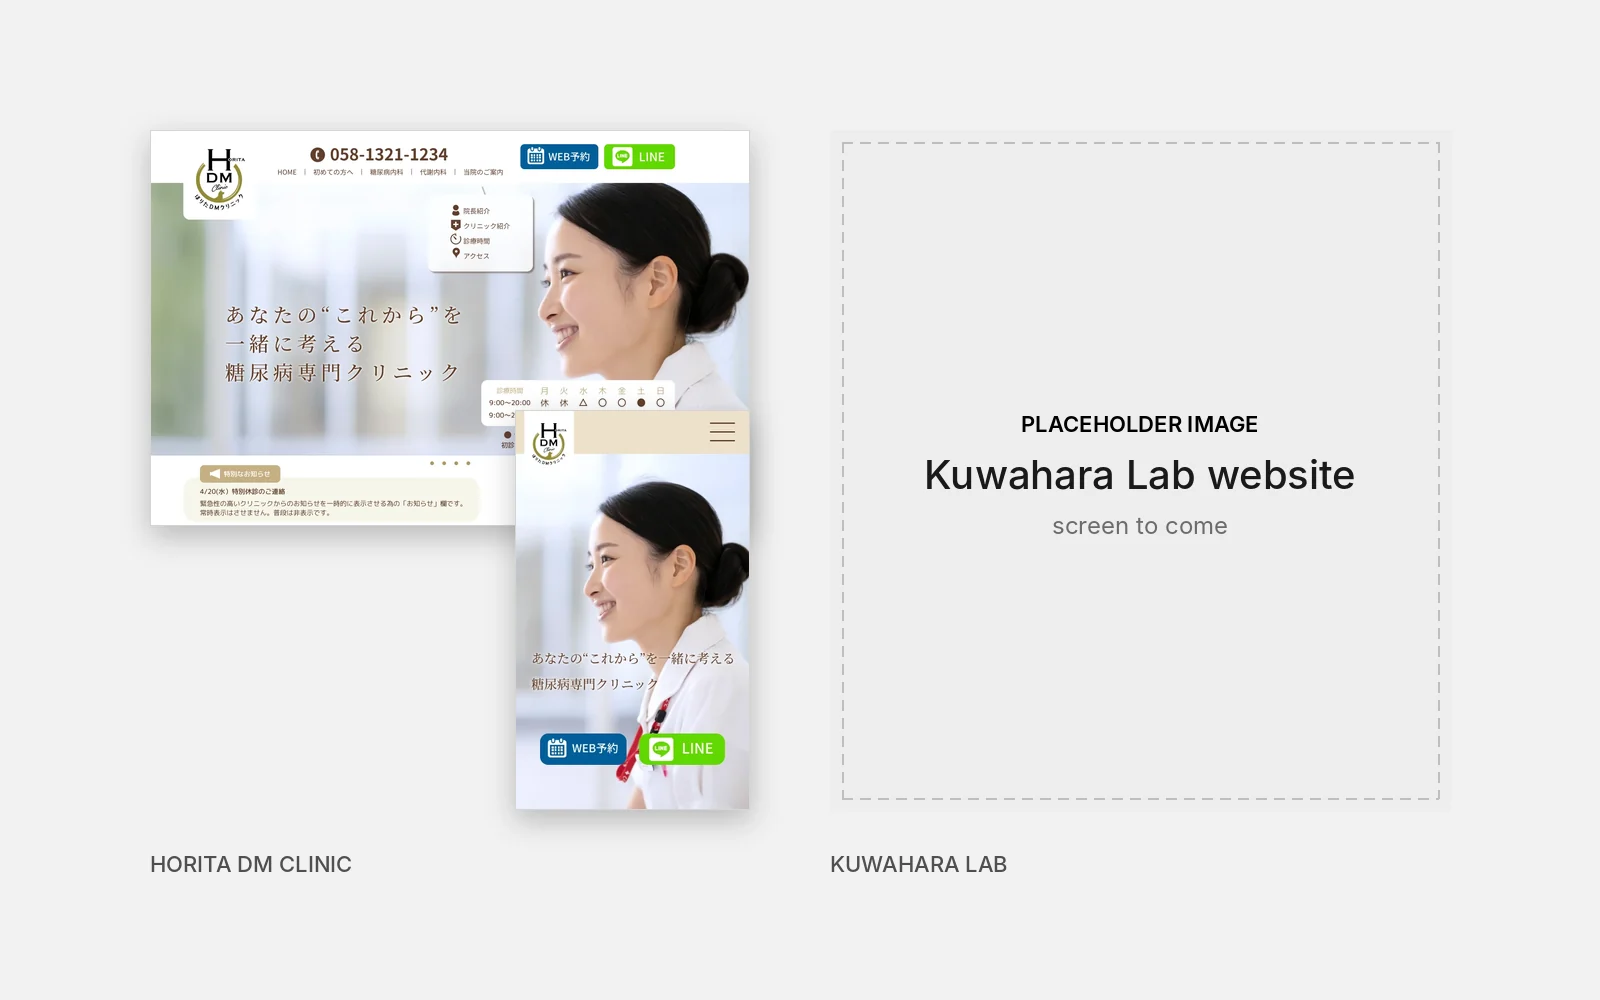
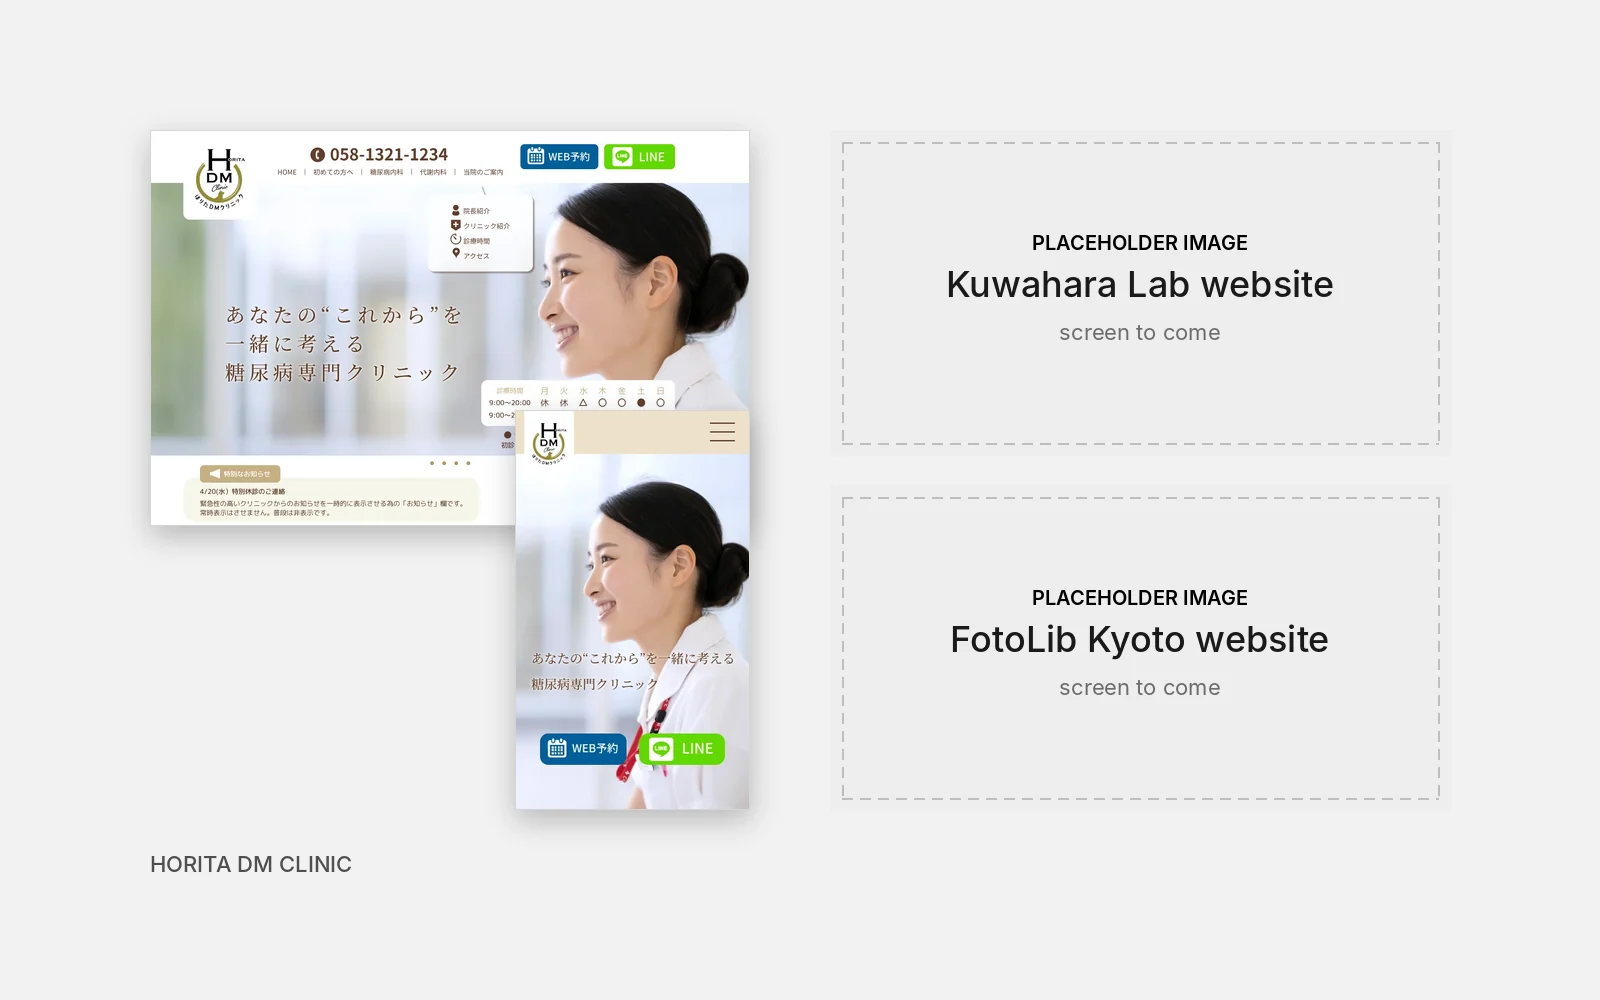
Add FotoLib Kyoto to the WordPress Japan project
FotoLib Kyoto joins Horita DM Clinic and Kuwahara Lab on card 05: the
summary, lead, context, facts and live-site links name all three.

Its Figma file and site could not be opened from this session, so it
carries only what is known — that the team created it and where it
lives — with a labelled placeholder block, like Kuwahara Lab. The
placeholder blocks are now one list on the project record rather than a
field each, and the card's collage gains a second placeholder panel.

Claude-Session: https://claude.ai/code/session_01Xf2N52RA4BQZigSsFccYcs

diff --git a/src/data/projects.js b/src/data/projects.js
@@ -236,25 +236,25 @@ export const projects = [
         short: 'WordPress Development',
         title: 'WordPress Website Development — Japan',
         summary:
-            'Developed WordPress websites for clients in Japan \u2014 Horita DM Clinic and ' +
-            'Kuwahara Lab \u2014 including translating provided Figma designs into ' +
-            'functional and responsive sites.',
+            'Developed WordPress websites for clients in Japan \u2014 Horita DM Clinic, ' +
+            'Kuwahara Lab and FotoLib Kyoto \u2014 including translating provided Figma ' +
+            'designs into functional and responsive sites.',
         go: 'View the project',
-        /* A collage of the two sites, made for the card: the clinic's home
-           page at desktop width and on a phone beside a labelled placeholder
-           for Kuwahara Lab. REPLACE the placeholder half with a real screen
-           of that site — see CONTENT-TODO.md §2 — and re-cut the file. */
+        /* A collage of the sites, made for the card: the clinic's home page
+           at desktop width and on a phone beside a labelled placeholder for
+           each of the other two. REPLACE those with real screens — see
+           CONTENT-TODO.md §2 — and re-cut the file. */
         cover: img('wordpress-japan', 'cover.webp'),
         coverAlt:
-            'Two WordPress websites for clients in Japan: the Horita DM Clinic home page ' +
-            'at desktop width and on a phone, beside a placeholder for the Kuwahara Lab website.',
+            'Three websites for clients in Japan: the Horita DM Clinic home page at desktop ' +
+            'width and on a phone, beside placeholders for the Kuwahara Lab and FotoLib Kyoto websites.',
         href: 'work/wordpress-japan.html',
 
         /* The case study page: the hero with its lead and facts, then one
-           block per part of the work. Two sites share it, because they are
+           block per part of the work. The sites share it, because they are
            the same kind of work for the same kind of client: the clinic's,
-           which has its screens, and Kuwahara Lab's, which has a placeholder
-           until it does. The blocks are src/case-studies/wordpress-japan.jsx.
+           which has its screens, and the others, which have a placeholder
+           each until they do. The blocks are src/case-studies/wordpress-japan.jsx.
 
            The clinic's pictures are the Figma file's own frames, exported and
            cut at section edges (public/assets/images/projects/wordpress-japan/),
@@ -273,9 +273,9 @@ export const projects = [
         lead:
             'Built WordPress websites for clients in Japan: a diabetes clinic in Gifu, ' +
             'from supplied Figma designs for desktop and for phones, and the Kuwahara ' +
-            'Lab website.',
+            'Lab and FotoLib Kyoto websites.',
         facts: [
-            ['Clients', 'Horita DM Clinic (\u5800\u7530DM\u30af\u30ea\u30cb\u30c3\u30af) \u00b7 Kuwahara Lab'],
+            ['Clients', 'Horita DM Clinic (\u5800\u7530DM\u30af\u30ea\u30cb\u30c3\u30af) \u00b7 Kuwahara Lab \u00b7 FotoLib Kyoto'],
             ['Location', 'Japan'],
             ['Role', 'WordPress development'],
             [
@@ -284,15 +284,26 @@ export const projects = [
                     links: [
                         { text: 'h-cl.jp', href: 'https://h-cl.jp/' },
                         { text: 'blog.kuwatechno.jp', href: 'https://blog.kuwatechno.jp/' },
+                        { text: 'fotolib-kyoto.com', href: 'https://fotolib-kyoto.com/' },
                     ],
                 },
             ],
         ],
-        /* Placeholder for the Kuwahara Lab block: 1440×900, replace with a
-           real screen of the site and write a real alt. */
-        kuwahara: [
-            'kuwahara-placeholder', 1440, 900,
-            'Placeholder for a screen of the Kuwahara Lab website.',
+        /* The sites that have no screens yet, one block each, in page order:
+           the key and label of the block, and a 1440×900 placeholder. REPLACE
+           an entry's picture with a real screen of the site (a webp beside the
+           clinic's, in screens) and write a real alt. */
+        pending: [
+            {
+                key: 'kuwahara',
+                label: 'Kuwahara Lab',
+                shot: ['kuwahara-placeholder', 1440, 900, 'Placeholder for a screen of the Kuwahara Lab website.'],
+            },
+            {
+                key: 'fotolib',
+                label: 'FotoLib Kyoto',
+                shot: ['fotolib-placeholder', 1440, 900, 'Placeholder for a screen of the FotoLib Kyoto website.'],
+            },
         ],
         screens: {
             top: [

diff --git a/src/case-studies/wordpress-japan.jsx b/src/case-studies/wordpress-japan.jsx
@@ -1,10 +1,10 @@
 import { Zoomable } from '../components/Lightbox.jsx';
 
-/* Two WordPress websites for clients in Japan, on the same shell as every
+/* WordPress websites for clients in Japan, on the same shell as every
    case study: the brief in words, then Horita DM Clinic's screens in
    pictures — the home page at desktop width, the same page on a phone, and
-   the inner pages — and then Kuwahara Lab, which has a placeholder where its
-   screens will go.
+   the inner pages — and then the other sites, each with a placeholder where
+   its screens will go.
 
    The clinic's pictures are the frames of the Figma file its site was built
    from, cut at section edges and kept in the repository, so they are plain
@@ -45,7 +45,7 @@ export default function blocks(project, onZoom) {
             body: (
                 <>
                     <p>
-                        Two WordPress websites for clients in Japan, built to be
+                        Three websites for clients in Japan, built in WordPress to be
                         responsive and to work as designed.
                     </p>
                     <p>
@@ -56,8 +56,9 @@ export default function blocks(project, onZoom) {
                         arrived as a Figma file, and my part was to build it in WordPress.
                     </p>
                     <p>
-                        <strong>Kuwahara Lab</strong> is the second site, which the team
-                        created and which is live at blog.kuwatechno.jp.
+                        <strong>Kuwahara Lab</strong> and <strong>FotoLib Kyoto</strong> are
+                        the other two, which the team created and which are live at
+                        blog.kuwatechno.jp and fotolib-kyoto.com.
                     </p>
                 </>
             ),
@@ -67,7 +68,7 @@ export default function blocks(project, onZoom) {
             label: 'Role',
             body: (
                 <ul className="case-list">
-                    <li>WordPress development of both websites</li>
+                    <li>WordPress development of all three websites</li>
                     <li>Horita DM Clinic: building the supplied Figma designs, from the desktop and phone frames</li>
                     <li>Horita DM Clinic: the header, the phone navigation panel and the footer</li>
                     <li>Horita DM Clinic: the booking and LINE buttons that stay with the reader down the page</li>
@@ -130,17 +131,18 @@ export default function blocks(project, onZoom) {
                 </div>
             ),
         },
-        {
-            key: 'kuwahara',
-            label: 'Kuwahara Lab',
+        /* The sites with no screens yet, each a labelled placeholder. */
+        ...project.pending.map(({ key, label, shot }) => ({
+            key,
+            label,
             wide: true,
             body: (
                 <div className="case-stack">
                     {/* REPLACE: a labelled placeholder. Its path, size and alt
                         text are on the project record. */}
-                    <Shot shot={project.kuwahara} ext="svg" onZoom={onZoom} />
+                    <Shot shot={shot} ext="svg" onZoom={onZoom} />
                 </div>
             ),
-        },
+        })),
     ];
 }

diff --git a/CONTENT-TODO.md b/CONTENT-TODO.md
@@ -50,22 +50,25 @@ rather than a dead one, so leaving that field null is a valid answer.
 ## 2. Case studies for the new carousel projects
 
 Seven projects are in `src/data/projects.js`. Three have a case study page
-(VOEPL, FLOWID, and the Japan WordPress sites under `wordpress-japan`). The
+(VOEPL, FLOWID, and the three Japan WordPress sites under `wordpress-japan`). The
 other four are covers and captions: they carry no `href`, so the carousel
 shows them without making them links, and nothing about them is published as
 a page.
 
-**Kuwahara Lab needs a screen.** It shares the `wordpress-japan` card and page
-with Horita DM Clinic, and has no pictures of its own yet, so two things carry
-a labelled placeholder:
+**Kuwahara Lab and FotoLib Kyoto need screens.** Both share the
+`wordpress-japan` card and page with Horita DM Clinic, and have no pictures
+of their own yet, so each carries a labelled placeholder in two places:
 
 | Where | What to replace it with |
 |---|---|
-| `public/assets/images/projects/wordpress-japan/kuwahara-placeholder.svg` | A 1440×900 screen of blog.kuwatechno.jp, then update `kuwahara` on the record (name, size, alt, and the `ext` on the block in `src/case-studies/wordpress-japan.jsx`) |
-| The right half of `public/assets/images/projects/wordpress-japan/cover.webp` | The same screen, in the card's collage. It was cut with a small script from the clinic's frames, so it is simplest to send the screen and have the cover re-cut |
+| `kuwahara-placeholder.svg` / `fotolib-placeholder.svg` in `public/assets/images/projects/wordpress-japan/` | A 1440×900 screen of the site, then update that entry in `pending` on the record in `src/data/projects.js` (name, size, alt) and the `ext` on its block in `src/case-studies/wordpress-japan.jsx` |
+| Its panel in `public/assets/images/projects/wordpress-japan/cover.webp` | The same screen, in the card's collage. It was cut with a small script from the clinic's frames, so it is simplest to send the screens and have the cover re-cut |
 
-Its page text says only what is known: that the team created the site and
-where it lives. Say what the work was and it can be given a block of its own.
+Their page text says only what is known: that the team created the sites and
+where they live. Say what the work was on each and it can be given a block of
+its own. FotoLib's Figma file could not be opened from the session that
+wrote this, so nothing from it is used; share it as "anyone with the link can
+view" and its frames can be cut the way the clinic's were.
 
 Giving one a case study is three edits made together:
 

diff --git a/ASSETS.md b/ASSETS.md
@@ -66,9 +66,9 @@ they gain a case study.
 | `public/assets/images/projects/gem-opalus-identity/cover.*` | 1600 × 1000 | 16:10 | Home |
 | `public/assets/images/projects/amanoya-mascot/cover.*` | 1600 × 1000 | 16:10 | Home |
 | `public/assets/images/projects/flowid-collateral/cover.*` | 1600 × 1000 | 16:10 | Home |
-| `public/assets/images/projects/wordpress-japan/cover.webp` | 1600 × 1000 | 16:10 | Home. A collage of the two sites; the Kuwahara Lab half is a **placeholder** |
+| `public/assets/images/projects/wordpress-japan/cover.webp` | 1600 × 1000 | 16:10 | Home. A collage of the three sites; the Kuwahara Lab and FotoLib Kyoto panels are **placeholders** |
 | `public/assets/images/projects/wordpress-japan/*.webp` | 1440 or 375 wide | — | Case study: frames of the clinic's Figma file, cut at section edges |
-| `public/assets/images/projects/wordpress-japan/kuwahara-placeholder.svg` | 1440 × 900 | 16:10 | Case study. **Placeholder** — replace with a real screen |
+| `public/assets/images/projects/wordpress-japan/{kuwahara,fotolib}-placeholder.svg` | 1440 × 900 | 16:10 | Case study. **Placeholders** — replace each with a real screen |
 | `public/assets/images/projects/ai-video/cover.*` | 1600 × 1000 | 16:10 | Home |
 
 Each cover appears in the **glass carousel** that is the whole of
